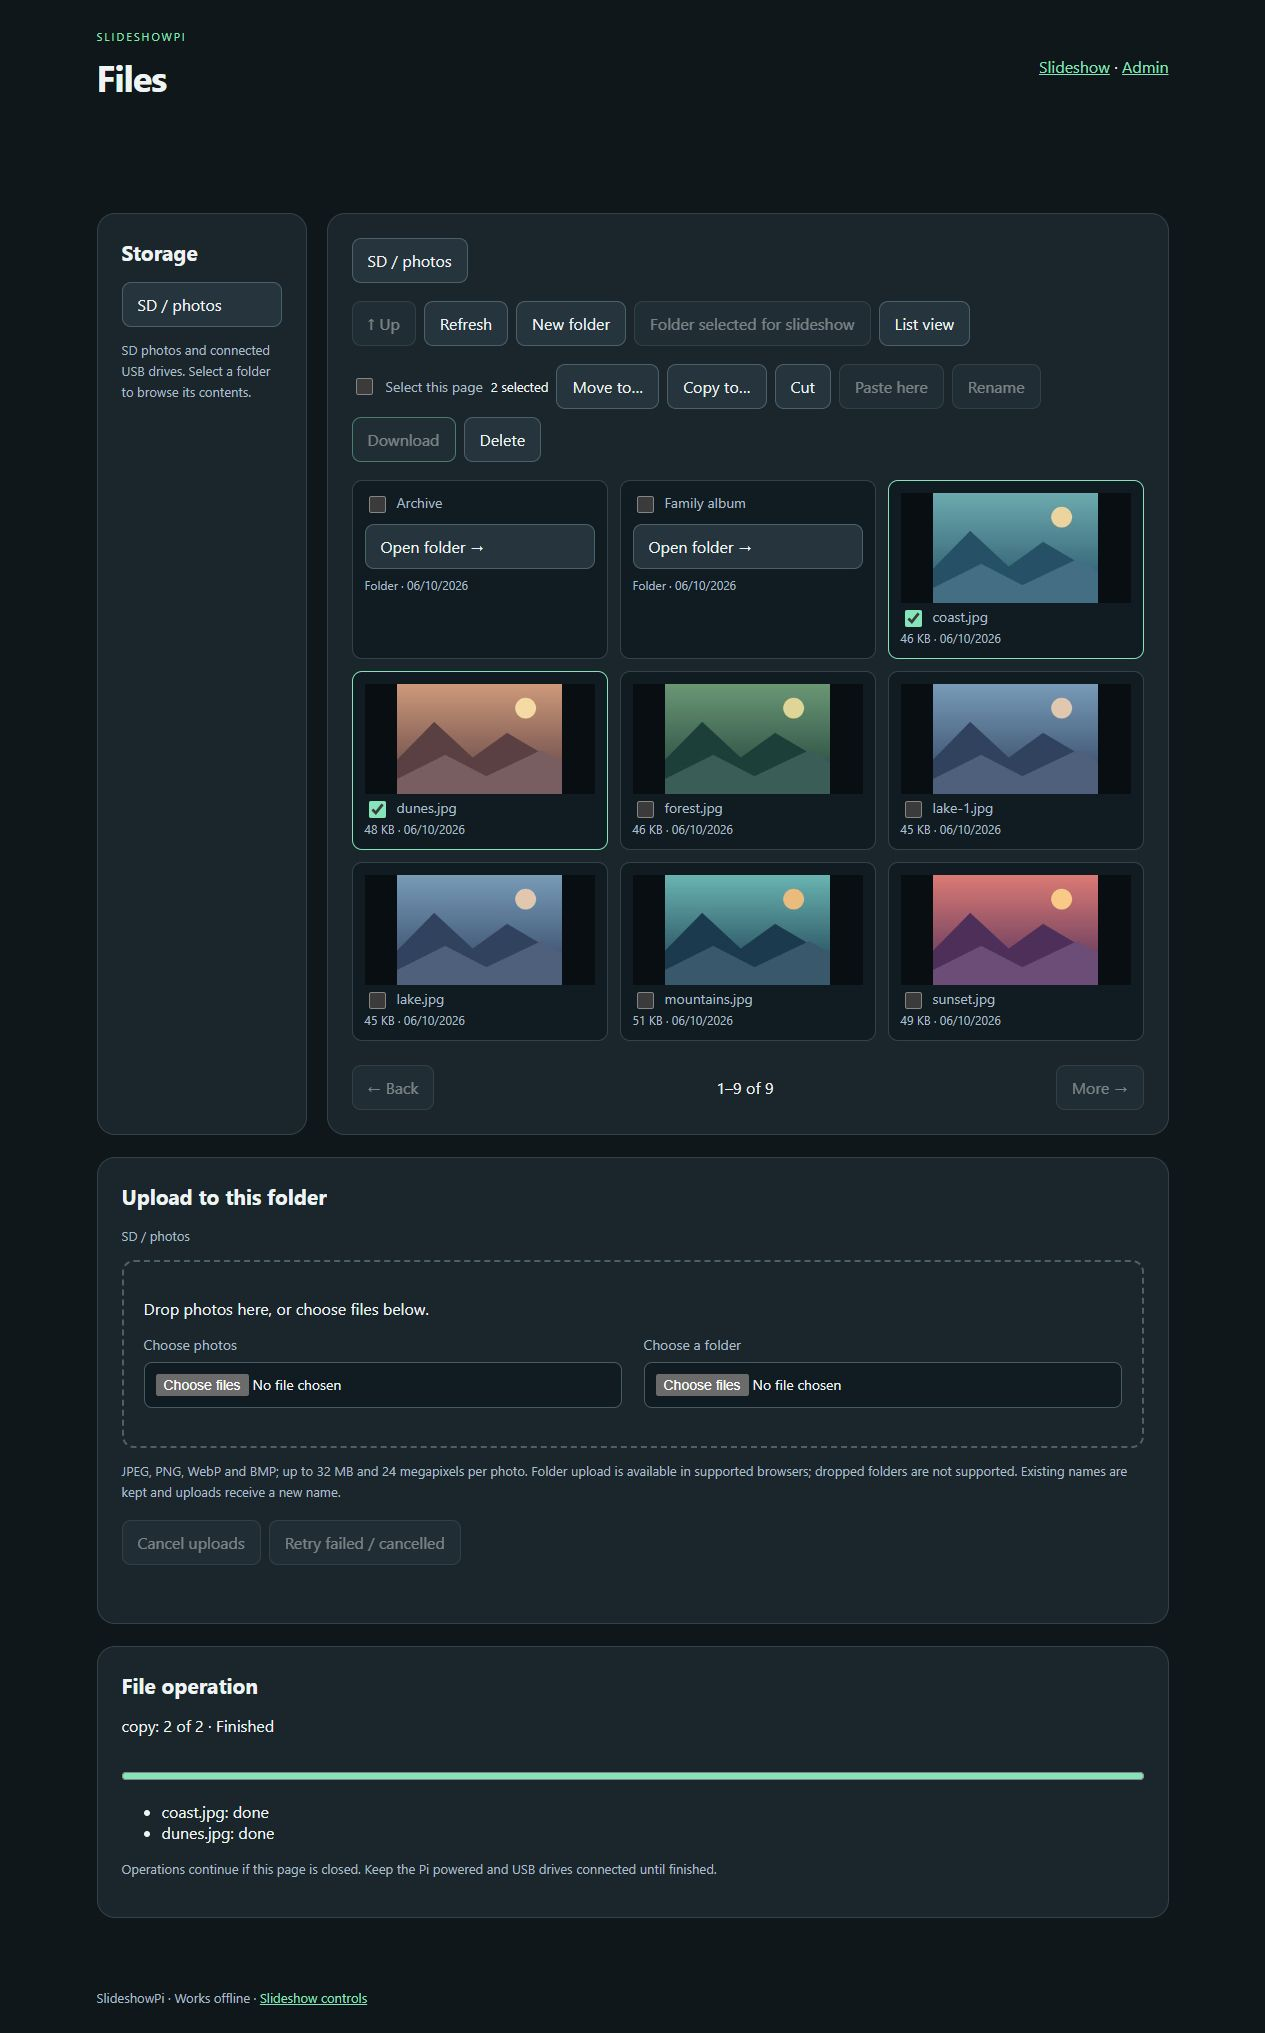
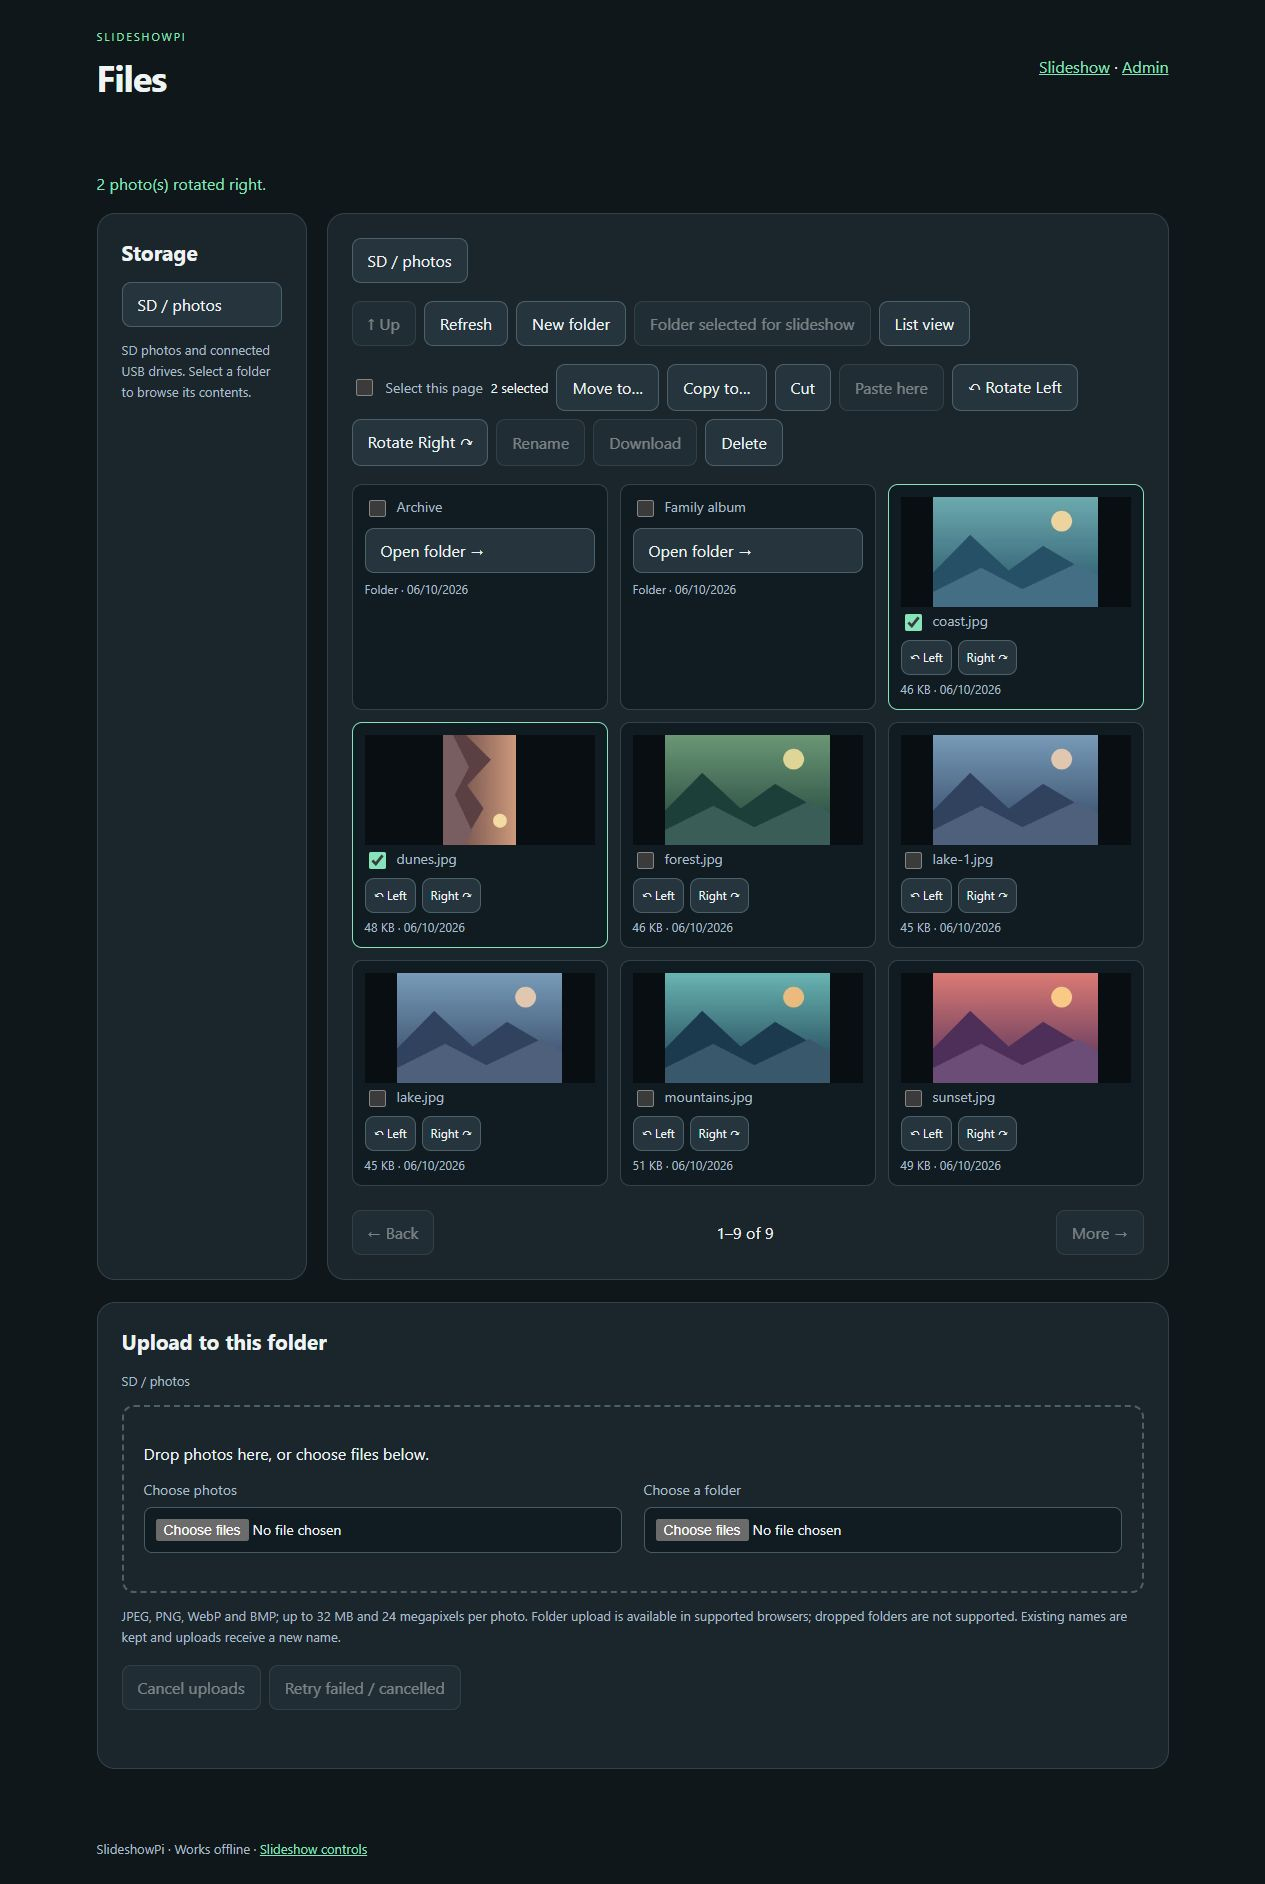
Add individual and batch photo rotation to file manager

diff --git a/static/files.js b/static/files.js
@@ -2,7 +2,7 @@
 const $ = id => document.getElementById(id);
 const token = document.querySelector('meta[name="slideshow-token"]').content;
 let listing, page = 0, selected = new Map(), clipboard = [], lastIndex = null;
-let destinationPath, destinationAction, jobRunning = false, jobId = '', loading = false;
+let destinationPath, destinationAction, jobRunning = false, jobId = '', loading = false, rotating = false;
 let uploadQueue = [], uploading = false, cancelUploads = false, activeXHR;
 function notice(message, error = false) { $('notice').textContent = message; $('notice').classList.toggle('error', error); }
 function guarded(fn) { return async event => { event?.preventDefault(); try { await fn(event); } catch (e) { notice(e.message, true); } }; }
@@ -18,11 +18,14 @@ function size(bytes) { return bytes == null ? 'Folder' : bytes < 1048576 ? `${Ma
 function crumbs(container, data, navigate) { container.replaceChildren(); for (const item of data.breadcrumbs) container.append(button(item.name, () => navigate(item.path))); }
 function selectionChanged() {
   $('selection').textContent = `${selected.size} selected`;
-  for (const id of ['move', 'copy', 'cut', 'delete']) $(id).disabled = !selected.size || jobRunning;
-  $('rename').disabled = selected.size !== 1 || jobRunning;
+  for (const id of ['move', 'copy', 'cut', 'delete']) $(id).disabled = !selected.size || jobRunning || rotating;
+  $('rename').disabled = selected.size !== 1 || jobRunning || rotating;
   $('download').disabled = selected.size !== 1 || [...selected.values()][0]?.folder;
   $('paste').disabled = !clipboard.length || jobRunning;
-  $('create').disabled = jobRunning;
+  $('create').disabled = jobRunning || rotating;
+  const photosOnly = selected.size > 0 && [...selected.values()].every(item => !item.folder);
+  for (const id of ['rotate-left', 'rotate-right']) $(id).disabled = !photosOnly || jobRunning || rotating;
+  for (const control of $('file-list').querySelectorAll('[data-rotation]')) control.disabled = jobRunning || rotating;
   $('select-all').checked = !!listing?.items.length && selected.size === listing.items.length;
   for (const row of $('file-list').children) { if (!row.dataset.path) continue; const active = selected.has(row.dataset.path); row.classList.toggle('selected', active); row.querySelector('input').checked = active; }
 }
@@ -42,7 +45,7 @@ async function load(path = listing?.path, newPage = 0) {
     $('file-list').replaceChildren();
     data.items.forEach((item, index) => {
       const row = document.createElement('article'); row.className = 'file-entry'; row.dataset.path = item.path;
-      if (!item.folder) { const img = document.createElement('img'); img.loading = 'lazy'; img.alt = ''; img.src = '/api/files/thumbnail?path=' + encodeURIComponent(item.path) + '&v=' + encodeURIComponent(item.stamp); row.append(img); }
+      if (!item.folder) { const img = document.createElement('img'); img.loading = 'lazy'; img.alt = ''; img.src = '/api/files/thumbnail?path=' + encodeURIComponent(item.path) + '&v=' + encodeURIComponent(item.stamp + ':' + (item.rotation || 0)); row.append(img); }
       const label = document.createElement('label'), check = document.createElement('input'); check.type = 'checkbox';
       check.onclick = event => {
         const enabled = check.checked;
@@ -52,6 +55,14 @@ async function load(path = listing?.path, newPage = 0) {
       };
       label.append(check, document.createTextNode(item.name)); row.append(label);
       if (item.folder) row.append(button('Open folder →', () => load(item.path)));
+      else {
+        const rotations = document.createElement('div'); rotations.className = 'file-rotate';
+        for (const [label, degrees, direction] of [['↶ Left', -90, 'left'], ['Right ↷', 90, 'right']]) {
+          const control = button(label, () => rotatePhotos([item], degrees));
+          control.dataset.rotation = String(degrees); control.setAttribute('aria-label', 'Rotate ' + item.name + ' ' + direction); rotations.append(control);
+        }
+        row.append(rotations);
+      }
       const details = document.createElement('small'); details.textContent = size(item.size) + ' · ' + new Date(item.modified * 1000).toLocaleDateString(); row.append(details);
       $('file-list').append(row);
     });
@@ -72,6 +83,23 @@ $('download').onclick = () => { const item = [...selected.values()][0]; if (item
 async function start(action, extra = {}, items = [...selected.values()]) {
   const result = await api('files/action', {action, items, ...extra}); jobId = result.id; jobRunning = true; selectionChanged(); await pollJob();
 }
+async function rotatePhotos(items, degrees) {
+  if (rotating || jobRunning) return;
+  rotating = true; selectionChanged();
+  try {
+    const result = await api('files/rotate', {items, degrees});
+    const paths = new Set(items.map(item => item.path));
+    for (const item of listing.items) if (paths.has(item.path)) {
+      item.rotation = ((item.rotation || 0) + degrees + 360) % 360;
+      const row = [...$('file-list').children].find(row => row.dataset.path === item.path);
+      const image = row?.querySelector('img');
+      if (image) image.src = '/api/files/thumbnail?path=' + encodeURIComponent(item.path) + '&v=' + encodeURIComponent(item.stamp + ':' + item.rotation);
+    }
+    notice(`${result.count} photo(s) rotated ${degrees < 0 ? 'left' : 'right'}.`);
+  } finally { rotating = false; selectionChanged(); }
+}
+$('rotate-left').onclick = guarded(() => rotatePhotos([...selected.values()], -90));
+$('rotate-right').onclick = guarded(() => rotatePhotos([...selected.values()], 90));
 $('delete').onclick = guarded(async () => { const items = [...selected.values()]; if (!confirm(`Permanently delete ${items.length} selected file(s) / folder(s)? Folders include all their photos. This cannot be undone.`)) return; await start('delete'); });
 $('rename').onclick = guarded(async () => { const item = [...selected.values()][0]; const name = prompt('New name (keep the photo extension)', item.name); if (name && name !== item.name) await start('rename', {name}); });
 $('cut').onclick = () => { clipboard = [...selected.values()]; selectionChanged(); notice(`${clipboard.length} item(s) cut. Open the destination folder and choose Paste here.`); };

diff --git a/static/style.css b/static/style.css
@@ -4,3 +4,5 @@
 .file-layout{display:grid;grid-template-columns:210px minmax(0,1fr);gap:20px}.file-content{min-width:0}.file-layout aside button{display:block;width:100%;text-align:left;margin-bottom:10px}.file-grid{display:grid;grid-template-columns:repeat(3,minmax(0,1fr));gap:12px}.file-entry{border:1px solid var(--line);border-radius:10px;background:#111c22;padding:12px;min-width:0}.file-entry.selected{border-color:var(--accent)}.file-entry img{width:100%;height:110px;object-fit:contain;background:#080e11}.file-entry label{display:flex;gap:8px;align-items:start;overflow-wrap:anywhere}.file-entry button{width:100%;text-align:left;margin:8px 0;overflow-wrap:anywhere}.file-entry small{display:block;color:var(--muted);font-size:12px}.file-grid.list-view{display:block}.list-view .file-entry{display:flex;gap:12px;align-items:center;margin-bottom:8px;flex-wrap:wrap}.list-view .file-entry img{width:60px;height:45px}.list-view .file-entry label{flex:1;min-width:150px}.list-view .file-entry button{width:auto}.file-content .check{margin:0}#breadcrumbs,#destination-path{display:flex;flex-wrap:wrap;gap:5px;margin-bottom:12px}#selection{align-self:center;font-size:13px}.drop-zone{border:2px dashed #4b6069;padding:20px;border-radius:12px}.drop-zone.dragging{border-color:var(--accent);background:#223a32}.upload-queue{max-height:300px;overflow:auto}.upload-queue li{padding:8px;overflow-wrap:anywhere}.upload-queue progress{margin:6px 0}.folder-picker{max-height:260px;overflow:auto}.folder-picker button{display:block;width:100%;text-align:left;margin-bottom:8px}dialog{background:var(--panel);color:var(--text);border:1px solid var(--line);border-radius:16px;padding:24px;width:min(600px,95vw)}dialog::backdrop{background:#0009}@media(max-width:750px){.file-layout{grid-template-columns:1fr}.file-layout aside{margin-bottom:0}.file-grid{grid-template-columns:repeat(2,minmax(0,1fr))}}
 
 .page-actions{display:flex;align-items:center;gap:20px;flex-wrap:wrap;margin-bottom:20px}.button-link{display:inline-block;border:1px solid var(--accent);border-radius:9px;padding:13px 20px;text-decoration:none}.button-link.primary{background:var(--accent);color:#122c22;font-weight:650}.button-link:hover{filter:brightness(1.08)}.button-link:focus-visible{outline:2px solid var(--accent);outline-offset:3px}
+
+.file-rotate{display:flex;gap:6px;flex-wrap:wrap;margin:6px 0}.file-rotate button{width:auto;margin:0;padding:8px;font-size:12px}

diff --git a/templates/files.html b/templates/files.html
@@ -8,7 +8,7 @@
 <section class="card file-content"><nav id="breadcrumbs" aria-label="Folder path"></nav>
 <div class="buttons"><button id="up">↑ Up</button><button id="refresh">Refresh</button><button id="create">New folder</button><button id="include">Use this folder in slideshow</button><button id="view">List view</button></div>
 <div class="buttons"><label class="check"><input id="select-all" type="checkbox">Select this page</label><span id="selection" aria-live="polite">0 selected</span>
-<button id="move" disabled>Move to…</button><button id="copy" disabled>Copy to…</button><button id="cut" disabled>Cut</button><button id="paste" disabled>Paste here</button><button id="rename" disabled>Rename</button><button id="download" disabled>Download</button><button id="delete" disabled>Delete</button></div>
+<button id="move" disabled>Move to…</button><button id="copy" disabled>Copy to…</button><button id="cut" disabled>Cut</button><button id="paste" disabled>Paste here</button><button id="rotate-left" disabled>↶ Rotate Left</button><button id="rotate-right" disabled>Rotate Right ↷</button><button id="rename" disabled>Rename</button><button id="download" disabled>Download</button><button id="delete" disabled>Delete</button></div>
 <div id="file-list" class="file-grid"></div><p id="ignored" class="hint"></p>
 <div class="pagination"><button id="back">← Back</button><span id="page-label"></span><button id="next">More →</button></div>
 </section></div>

diff --git a/tests/test_files.py b/tests/test_files.py
@@ -219,3 +219,50 @@ def test_destination_safety_skips_existing_photo_and_rejects_low_space(appliance
     with pytest.raises(ValueError, match='free space'):
         files.operation('copy', files.entry(source), str(destination))
     assert source.exists() and not list(destination.glob('.transfer-*'))
+
+
+def test_file_rotations_work_outside_playlist_preserve_original_and_survive_restart(appliance):
+    client, lib, headers = appliance
+    folder = lib.sd / 'Other'; folder.mkdir()
+    path = folder / 'portrait.jpg'
+    Image.new('RGB', (40, 20), 'green').save(path)
+    lib.update({'folders': [str(lib.sd)], 'recursive': False})
+    assert not lib.images
+    original = path.read_bytes()
+    item = client.get('/api/files', query_string={'path': str(folder)}).json['items'][0]
+    result = client.post('/api/files/rotate', headers=headers, json={'items': [item], 'degrees': -90})
+    assert result.status_code == 200 and result.json['count'] == 1
+    assert path.read_bytes() == original
+    preview = client.get('/api/files/thumbnail', query_string={'path': str(path)})
+    assert Image.open(BytesIO(preview.data)).size == (20, 40)
+    assert client.get('/api/files', query_string={'path': str(folder)}).json['items'][0]['rotation'] == 270
+    from slideshow.core import Library
+    assert Library(lib.data, lib.usb).settings['rotations'][lib.image_id(path)] == 270
+    assert client.post('/api/files/rotate', headers=headers, json={'items': [item], 'degrees': 90}).status_code == 200
+    assert lib.settings['rotations'][lib.image_id(path)] == 0
+
+
+def test_bulk_rotation_validates_whole_selection_before_saving(appliance):
+    client, lib, headers = appliance
+    for filename in ['a.jpg', 'b.jpg']: upload(client, lib, headers, filename)
+    items = client.get('/api/files').json['items']
+    assert client.post('/api/files/rotate', headers=headers, json={'items': items, 'degrees': 90}).status_code == 200
+    assert all(lib.settings['rotations'][lib.image_id(Path(item['path']))] == 90 for item in items)
+    saved = lib.config_file.read_bytes()
+    for payload in [{'items': items, 'degrees': True}, {'items': items, 'degrees': 180},
+                    {'items': items + [items[0]], 'degrees': -90},
+                    {'items': [items[0], dict(items[1], stamp='stale')], 'degrees': -90}]:
+        assert client.post('/api/files/rotate', headers=headers, json=payload).status_code == 400
+        assert lib.config_file.read_bytes() == saved
+    folder = lib.sd / 'Folder'; folder.mkdir()
+    assert client.post('/api/files/rotate', headers=headers, json={'items': [Files(lib).entry(folder)], 'degrees': 90}).status_code == 400
+
+
+def test_file_rotation_requires_photo_login_and_csrf(protected):
+    client, m, root, lib, headers = protected
+    item = Files(lib).entry(Path(lib.images[0]['path']))
+    assert client.post('/api/files/rotate', headers=headers, json={'items': [item], 'degrees': 90}).status_code == 401
+    client.post('/api/photo-access/login', headers=headers, json={'password': 'test-photo-password'})
+    assert client.post('/api/files/rotate', json={'items': [item], 'degrees': 90}).status_code == 403
+    assert client.post('/api/files/rotate', headers=headers, json={'items': [item], 'degrees': 90}).status_code == 200
+    assert client.get('/api/state').json['current']['rotation'] == 90

diff --git a/slideshow/files.py b/slideshow/files.py
@@ -52,7 +52,8 @@ class Files:
     def entry(self, path):
         return dict(path=str(path), name=path.name, folder=path.is_dir(),
                     stamp=stamp(path), size=path.stat().st_size if path.is_file() else None,
-                    modified=path.stat().st_mtime)
+                    modified=path.stat().st_mtime,
+                    rotation=self.library.settings['rotations'].get(self.library.image_id(path), 0) if path.is_file() else 0)
 
     def listing(self, value=None, page=0):
         roots = self.roots()
@@ -94,6 +95,27 @@ class Files:
         if not path.is_dir() and (not path.is_file() or path.suffix.lower() not in EXTENSIONS):
             raise ValueError('Only photo files and photo folders can be managed.')
         return path
+
+    def rotate(self, entries, degrees):
+        if type(degrees) is not int or degrees not in (-90, 90):
+            raise ValueError('Choose a 90-degree left or right rotation.')
+        if not isinstance(entries, list) or not 1 <= len(entries) <= 100:
+            raise ValueError('Select between 1 and 100 photos.')
+        lib = self.library
+        with lib.scan_lock, lib.lock:
+            paths = [self.source(entry) for entry in entries]
+            if any(not path.is_file() for path in paths) or len(set(paths)) != len(paths):
+                raise ValueError('Select photos only, without duplicate entries.')
+            previous = dict(lib.settings['rotations'])
+            for path in paths:
+                image_id = lib.image_id(path)
+                lib.settings['rotations'][image_id] = (previous.get(image_id, 0) + degrees) % 360
+            try:
+                lib.save()
+            except Exception:
+                lib.settings['rotations'] = previous
+                raise
+        return len(paths)
 
     def snapshot(self, path):
         entries = [(path, stamp(path), path.is_dir())]

diff --git a/slideshow/web.py b/slideshow/web.py
@@ -153,6 +153,14 @@ def create_app(data=None, usb=None, start_worker=True, admin=None):
     def file_action():
         return jsonify(files.start(request.get_json(silent=True))), 202
 
+    @app.post('/api/files/rotate')
+    @storage_mutation
+    def file_rotate():
+        payload = request.get_json(silent=True)
+        if not isinstance(payload, dict): raise ValueError('Choose photos and a rotation direction.')
+        count = files.rotate(payload.get('items'), payload.get('degrees'))
+        return jsonify(ok=True, count=count)
+
     @app.get('/api/files/job')
     def file_job():
         return jsonify(job=files.status())

diff --git a/README.md b/README.md
@@ -269,6 +269,7 @@ Choose the prominent **Add / Manage Photos** button at the top of the slideshow 
 - **Move to… / Copy to…**: browse to a destination, then choose Keep both or Skip for name conflicts. Keep both adds a number; existing entries are never silently overwritten. Folders are copied as a whole rather than merged.
 - **Cut / Paste here**: select entries, choose Cut, navigate to a folder, then Paste here. This clipboard stays in the current browser tab; paste keeps both on conflicts.
 - **New folder / Rename / Delete**: manage photos and photo folders. Deletion asks for confirmation and permanently removes the original files. Storage roots cannot be moved or deleted. Folders containing hidden, linked or non-photo entries are refused to prevent deleting unrelated data.
+- **Rotate Left / Rotate Right**: use the buttons on a photo thumbnail, or select several photos and use the toolbar. Rotations are saved as display settings, including for photos outside selected slideshow folders; originals remain unchanged.
 - **Download**: select a single photo to download its original. Rotation remains a display setting; the downloaded file is unchanged.
 - **Use this folder in slideshow**: add the open folder to playback without replacing the other selected folders. Existing slideshow settings and image controls remain on the Slideshow page.
 - **Upload**: choose multiple photos or drop files into the upload area. Supported browsers can use Choose a folder to preserve its subfolder structure. Dropped folders are not supported. The queue sends one photo at a time, shows progress/errors, and offers Cancel and Retry failed / cancelled. The destination is captured when files are queued, so browsing elsewhere does not redirect pending uploads. Cancelling interrupts browser uploads; a file already accepted by the server may still appear. Refresh before retrying to avoid duplicate uploads.
